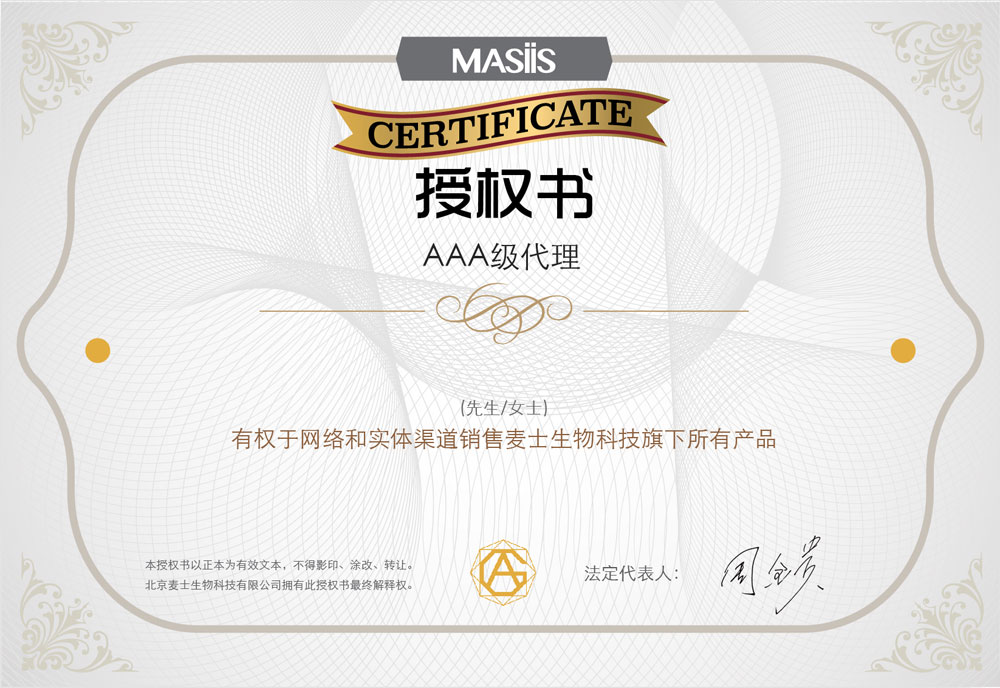
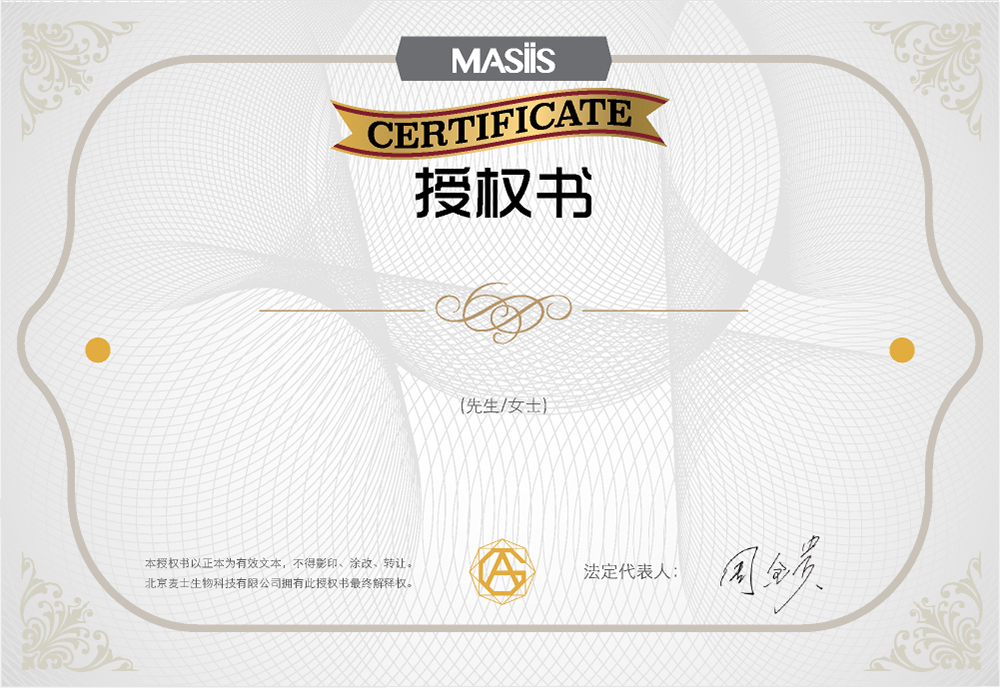
修改证书打印

diff --git a/shop-web/src/main/java/com/masiis/shop/web/platform/utils/DrawPicUtil.java b/shop-web/src/main/java/com/masiis/shop/web/platform/utils/DrawPicUtil.java
@@ -1,0 +1,288 @@
+package com.masiis.shop.web.platform.utils;
+
+import javax.imageio.ImageIO;
+import java.awt.*;
+import java.awt.font.FontRenderContext;
+import java.awt.geom.Rectangle2D;
+import java.awt.image.BufferedImage;
+import java.io.File;
+import java.io.IOException;
+import java.io.ObjectInput;
+import java.net.URL;
+import java.util.*;
+import java.util.List;
+
+/**
+ * DrawPicUtil
+ *
+ * @author ZhaoLiang
+ * @date 2016/5/9
+ */
+public class DrawPicUtil {
+    private Font font = new Font("", Font.PLAIN, 20);// 添加字体的属性设置
+
+    private Graphics2D g = null;
+
+    private int fontsize = 0;
+
+    private int x = 0;
+
+    private int y = 0;
+
+    /**
+     * 导入本地图片到缓冲区
+     */
+    public BufferedImage loadImageLocal(String imgName) {
+        try {
+            return ImageIO.read(new File(imgName));
+        } catch (IOException e) {
+            System.out.println(e.getMessage());
+        }
+        return null;
+    }
+
+    /**
+     * 导入网络图片到缓冲区
+     */
+    public BufferedImage loadImageUrl(String imgName) {
+        try {
+            URL url = new URL(imgName);
+            return ImageIO.read(url);
+        } catch (IOException e) {
+            System.out.println(e.getMessage());
+        }
+        return null;
+    }
+
+    /**
+     * 生成新图片到本地
+     */
+    public void writeImageLocal(String newImage, BufferedImage img) {
+        if (newImage != null && img != null) {
+            try {
+                File outputfile = new File(newImage);
+                ImageIO.write(img, "jpg", outputfile);
+            } catch (IOException e) {
+                System.out.println(e.getMessage());
+            }
+        }
+    }
+
+    /**
+     * 设定文字的字体等
+     */
+    public void setFont(String fontStyle, int fontSize) {
+        this.fontsize = fontSize;
+        this.font = new Font(fontStyle, Font.PLAIN, fontSize);
+    }
+
+    /**
+     * 修改图片,返回修改后的图片缓冲区（只输出一行文本）
+     */
+    public BufferedImage modifyImage(BufferedImage img, Object content, int x,
+                                     int y) {
+        try {
+            int w = img.getWidth();
+            int h = img.getHeight();
+            g = img.createGraphics();
+            g.setBackground(Color.WHITE);
+            g.setColor(Color.RED);
+            if (this.font != null)
+                g.setFont(this.font);
+            // 验证输出位置的纵坐标和横坐标
+            if (x >= h || y >= w) {
+                this.x = h - this.fontsize + 2;
+                this.y = w;
+            } else {
+                this.x = x;
+                this.y = y;
+            }
+            if (content != null) {
+                g.drawString(content.toString(), this.x, this.y);
+            }
+            g.dispose();
+        } catch (Exception e) {
+            System.out.println(e.getMessage());
+        }
+
+        return img;
+    }
+
+    /**
+     * 修改图片,返回修改后的图片缓冲区（输出多个文本段） xory：true表示将内容在一行中输出；false表示将内容多行输出
+     */
+    public BufferedImage modifyImage(BufferedImage img, Object[] contentArr,
+                                     int x, int y, boolean xory) {
+        try {
+            int w = img.getWidth();
+            int h = img.getHeight();
+            g = img.createGraphics();
+            g.setBackground(Color.WHITE);
+            g.setColor(Color.RED);
+            if (this.font != null)
+                g.setFont(this.font);
+            // 验证输出位置的纵坐标和横坐标
+            if (x >= h || y >= w) {
+                this.x = h - this.fontsize + 2;
+                this.y = w;
+            } else {
+                this.x = x;
+                this.y = y;
+            }
+            if (contentArr != null) {
+                int arrlen = contentArr.length;
+                if (xory) {
+                    for (int i = 0; i < arrlen; i++) {
+                        g.drawString(contentArr[i].toString(), this.x, this.y);
+                        this.x += contentArr[i].toString().length()
+                                * this.fontsize / 2 + 5;// 重新计算文本输出位置
+                    }
+                } else {
+                    for (int i = 0; i < arrlen; i++) {
+                        g.drawString(contentArr[i].toString(), this.x, this.y);
+                        this.y += this.fontsize + 2;// 重新计算文本输出位置
+                    }
+                }
+            }
+            g.dispose();
+        } catch (Exception e) {
+            System.out.println(e.getMessage());
+        }
+
+        return img;
+    }
+
+    public BufferedImage modifyImagetogeter(BufferedImage b, BufferedImage d) {
+        try {
+            int w = b.getWidth();
+            int h = b.getHeight();
+            g = d.createGraphics();
+            g.drawImage(b, 100, 10, w, h, null);
+            g.dispose();
+        } catch (Exception e) {
+            System.out.println(e.getMessage());
+        }
+
+        return d;
+    }
+
+    /**
+     * 自定义修改图片 往图片上打字
+     *
+     * @param img
+     * @param drawPicParamList
+     * @return
+     */
+    public BufferedImage modifyImage(BufferedImage img, List<DrawPicParam> drawPicParamList) {
+        try {
+            int width = img.getWidth();
+            int height = img.getHeight();
+            g = img.createGraphics();
+            g.setBackground(Color.WHITE);
+            for (DrawPicParam drawPicParam : drawPicParamList) {
+                g.setFont(drawPicParam.getFont());
+                g.setColor(drawPicParam.getColor());
+                if (drawPicParam.getX() == 0) {
+                    int strSize = getStringPointSize(drawPicParam.getContent(), drawPicParam.getFont());
+                    g.drawString(drawPicParam.getContent(), (width - strSize) / 2, drawPicParam.getY());
+                } else {
+                    g.drawString(drawPicParam.getContent(), drawPicParam.getX(), drawPicParam.getY());
+                }
+            }
+            g.dispose();
+        } catch (Exception e) {
+            System.out.println(e.getMessage());
+        }
+
+        return img;
+    }
+
+    /**
+     * 计算字符串的像素长度与高度
+     *
+     * @param str  字符串
+     * @param font 字体
+     */
+    public int getStringPointSize(String str, Font font) {
+        FontMetrics metrics = new FontMetrics(font) {
+        };
+        Rectangle2D bounds = metrics.getStringBounds(str, null);
+        return (int) bounds.getWidth();
+    }
+
+    public DrawPicParam getDrawPicParam() {
+        return new DrawPicParam();
+    }
+
+    public class DrawPicParam {
+        private String content;
+        private int x = 0;
+        private int y = 0;
+        private Color color = Color.black;
+        private Font font = new Font("华文细黑", Font.PLAIN, 20);
+
+        public String getContent() {
+            return content;
+        }
+
+        public void setContent(String content) {
+            this.content = content;
+        }
+
+        public int getX() {
+            return x;
+        }
+
+        public void setX(int x) {
+            this.x = x;
+        }
+
+        public int getY() {
+            return y;
+        }
+
+        public void setY(int y) {
+            this.y = y;
+        }
+
+        public Color getColor() {
+            return color;
+        }
+
+        public void setColor(Color color) {
+            this.color = color;
+        }
+
+        public Font getFont() {
+            return font;
+        }
+
+        public void setFont(Font font) {
+            this.font = font;
+        }
+    }
+
+
+    public static void main(String[] args) {
+        DrawPicUtil drawPicUtil = new DrawPicUtil();
+        BufferedImage bufferedImage = drawPicUtil.loadImageLocal("D:\\level1.jpg");
+        List<DrawPicParam> drawPicParams = new ArrayList<>();
+        DrawPicParam drawPicParam1 = drawPicUtil.getDrawPicParam();
+        drawPicParam1.setContent("授权书编号：MASIIS200461600268  手机：18612111522");
+        drawPicParam1.setY(490);
+        drawPicParams.add(drawPicParam1);
+        DrawPicParam drawPicParam2 = drawPicUtil.getDrawPicParam();
+        drawPicParam2.setContent("授权期限：2016-05-09 至 2018-05-09  微信：NeverMore1126");
+        drawPicParam2.setY(520);
+        drawPicParams.add(drawPicParam2);
+        DrawPicParam drawPicParam3 = drawPicUtil.getDrawPicParam();
+        drawPicParam3.setContent("赵  亮");
+        drawPicParam3.setY(380);
+        drawPicParam3.setFont(new Font("华文细黑", Font.PLAIN, 40));
+        drawPicParams.add(drawPicParam3);
+//        drawPicUtil.writeImageLocal("D:\\level1_result.jpg", drawPicUtil.modifyImage(bufferedImage, "AAA", 200, 200));
+        drawPicUtil.writeImageLocal("D:\\level1_result.jpg", drawPicUtil.modifyImage(bufferedImage, drawPicParams));
+        System.out.print("success");
+    }
+
+}

diff --git a/shop-web/src/main/java/com/masiis/shop/web/platform/service/order/BOrderPayService.java b/shop-web/src/main/java/com/masiis/shop/web/platform/service/order/BOrderPayService.java
@@ -270,8 +270,8 @@ public class BOrderPayService {
                 String name = comUser.getRealName();//申请人
                 String beginTime = DateUtil.Date2String(pfUserCertificate.getBeginTime(), "yyyy-MM-dd", null);
                 String endTime = DateUtil.Date2String(pfUserCertificate.getEndTime(), "yyyy-MM-dd", null);
-                String value1 = "授权书编号：" + pfUserCertificate.getCode() + "，手机：" + pfUserCertificate.getMobile() + "，微信：" + pfUserCertificate.getWxId();
-                String value2 = "授权期限：" + beginTime + "至" + endTime;
+                String value1 = "授权书编号：" + pfUserCertificate.getCode() + "   授权期限：" + beginTime + " 至 " + endTime;
+                String value2 = "手机：" + pfUserCertificate.getMobile() + "   微信：" + pfUserCertificate.getWxId();
                 ComAgentLevel comAgentLevel = comAgentLevelMapper.selectByPrimaryKey(pfUserCertificate.getAgentLevelId());
                 String picName = uploadFile(rootPath + "/static/images/certificate/" + comAgentLevel.getImgUrl(), new String[]{name, value1, value2});
                 pfUserCertificate.setImgUrl(picName + ".jpg");
@@ -556,7 +556,7 @@ public class BOrderPayService {
                 paramIn[0] = pfBorder.getOrderCode();
                 paramIn[1] = timeFormart.format(pfBorder.getCreateTime());
                 String url = PropertiesUtils.getStringValue("web.domain.name.address") + "/borderManage/borderDetils.html?id=" + pfBorder.getId();
-                WxPFNoticeUtils.getInstance().newOrderNotice(comUser, paramIn, url, false);
+                WxPFNoticeUtils.getInstance().newOrderNotice(pComUser, paramIn, url, false);
                 MobileMessageUtil.getInitialization("B").haveNewLowerOrder(pComUser.getMobile(), pfBorder.getOrderStatus());
             }
         } else {
@@ -598,7 +598,7 @@ public class BOrderPayService {
                         paramIn[0] = pfBorder.getOrderCode();
                         paramIn[1] = timeFormart.format(pfBorder.getCreateTime());
                         String url = PropertiesUtils.getStringValue("web.domain.name.address") + "/borderManage/borderDetils.html?id=" + pfBorder.getId();
-                        WxPFNoticeUtils.getInstance().newOrderNotice(comUser, paramIn, url, true);
+                        WxPFNoticeUtils.getInstance().newOrderNotice(pComUser, paramIn, url, true);
                         MobileMessageUtil.getInitialization("B").haveNewLowerOrder(pComUser.getMobile(), pfBorder.getOrderStatus());
                     }
                 }

diff --git a/shop-admin/src/main/java/com/masiis/shop/admin/service/order/BOrderPayService.java b/shop-admin/src/main/java/com/masiis/shop/admin/service/order/BOrderPayService.java
@@ -581,7 +581,7 @@ public class BOrderPayService {
                 paramIn[0] = pfBorder.getOrderCode();
                 paramIn[1] = timeFormart.format(pfBorder.getCreateTime());
                 String url = PropertiesUtils.getStringValue("web.domain.name.address") + "/borderManage/borderDetils.html?id=" + pfBorder.getId();
-                WxPFNoticeUtils.getInstance().newOrderNotice(comUser, paramIn, url, false);
+                WxPFNoticeUtils.getInstance().newOrderNotice(pComUser, paramIn, url, false);
                 MobileMessageUtil.getInitialization("B").haveNewLowerOrder(pComUser.getMobile(), pfBorder.getOrderStatus());
             }
         } else {
@@ -623,7 +623,7 @@ public class BOrderPayService {
                         paramIn[0] = pfBorder.getOrderCode();
                         paramIn[1] = timeFormart.format(pfBorder.getCreateTime());
                         String url = PropertiesUtils.getStringValue("web.domain.name.address") + "/borderManage/borderDetils.html?id=" + pfBorder.getId();
-                        WxPFNoticeUtils.getInstance().newOrderNotice(comUser, paramIn, url, true);
+                        WxPFNoticeUtils.getInstance().newOrderNotice(pComUser, paramIn, url, true);
                         MobileMessageUtil.getInitialization("B").haveNewLowerOrder(pComUser.getMobile(), pfBorder.getOrderStatus());
                     }
                 }
